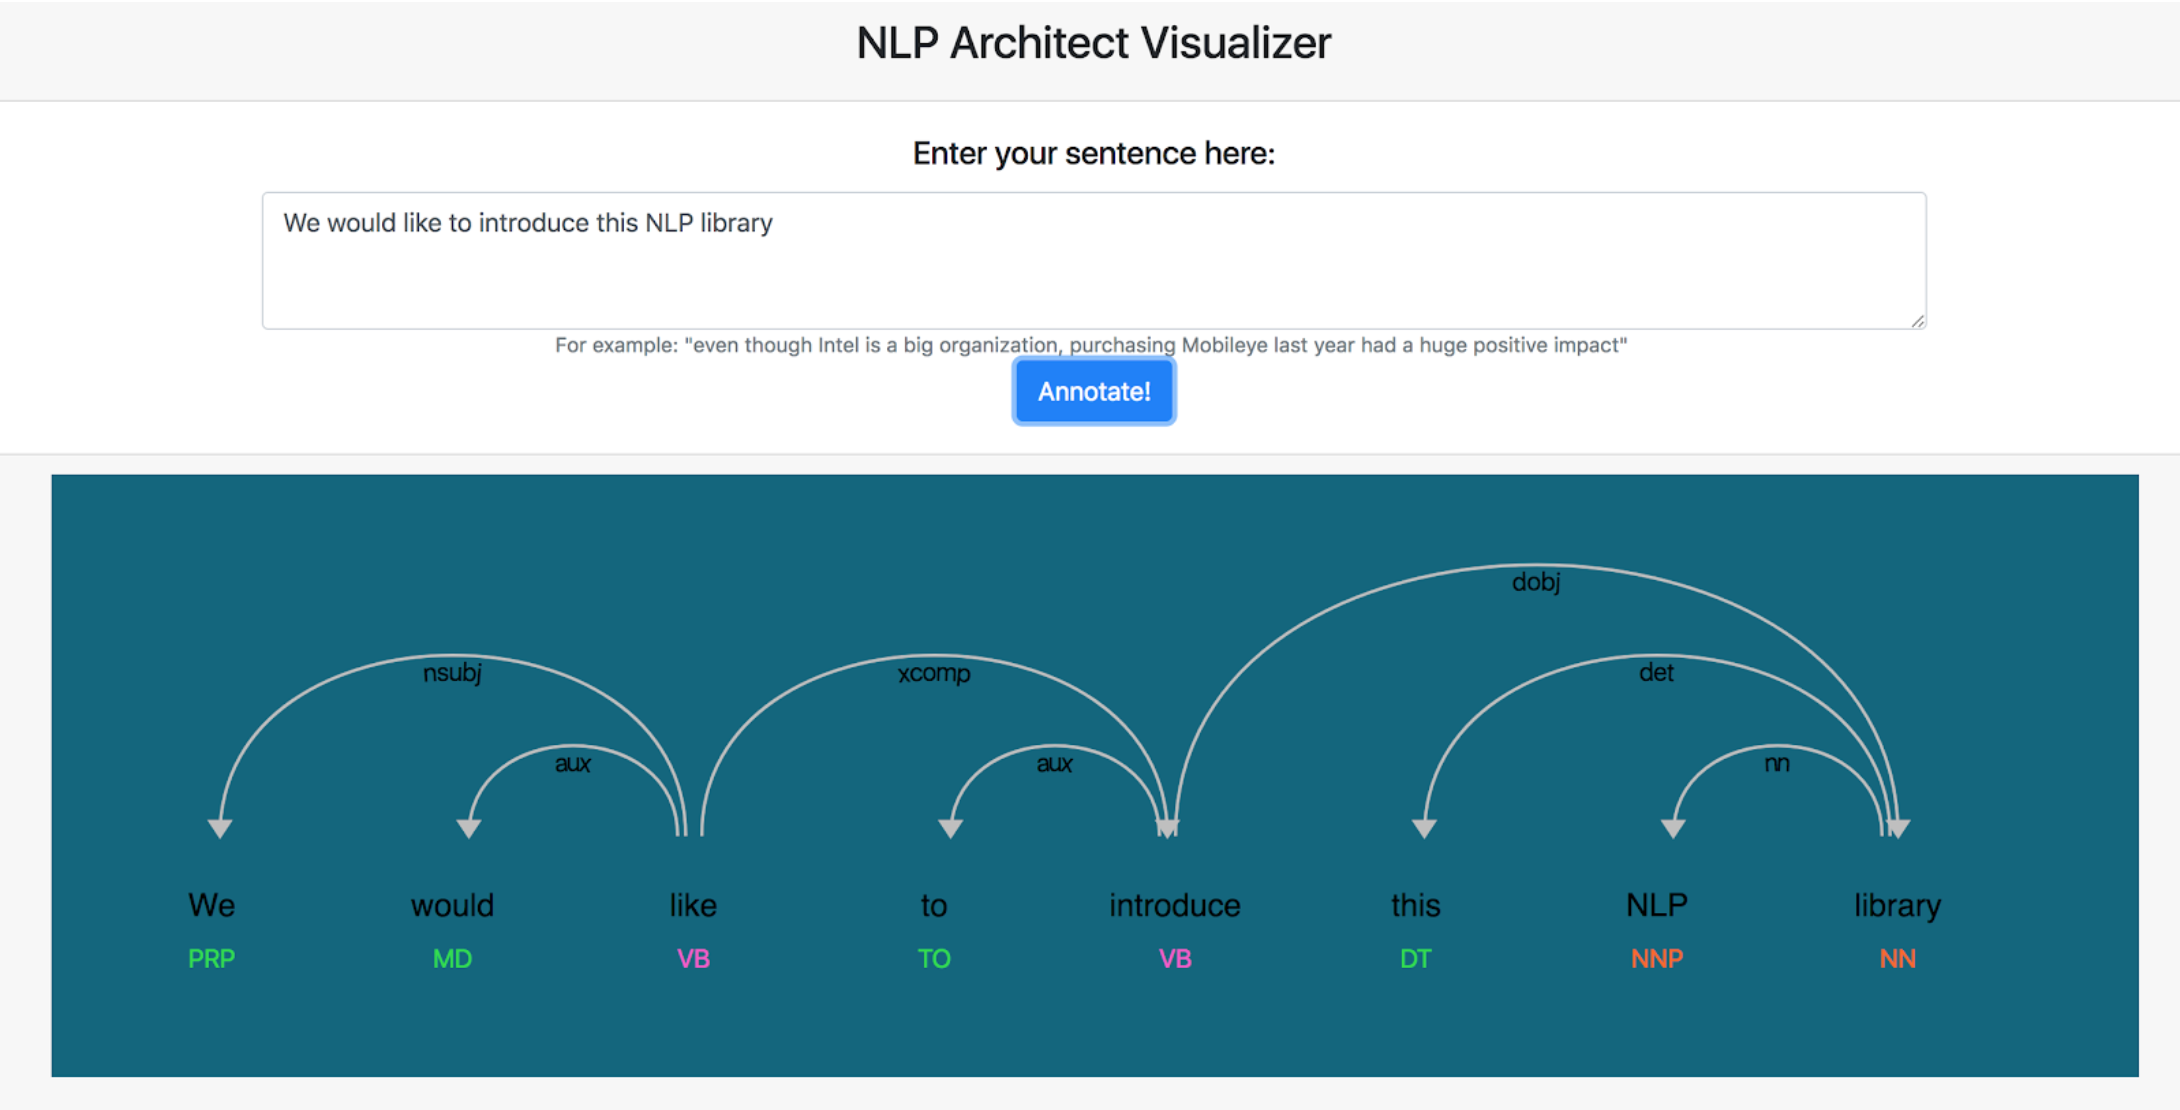
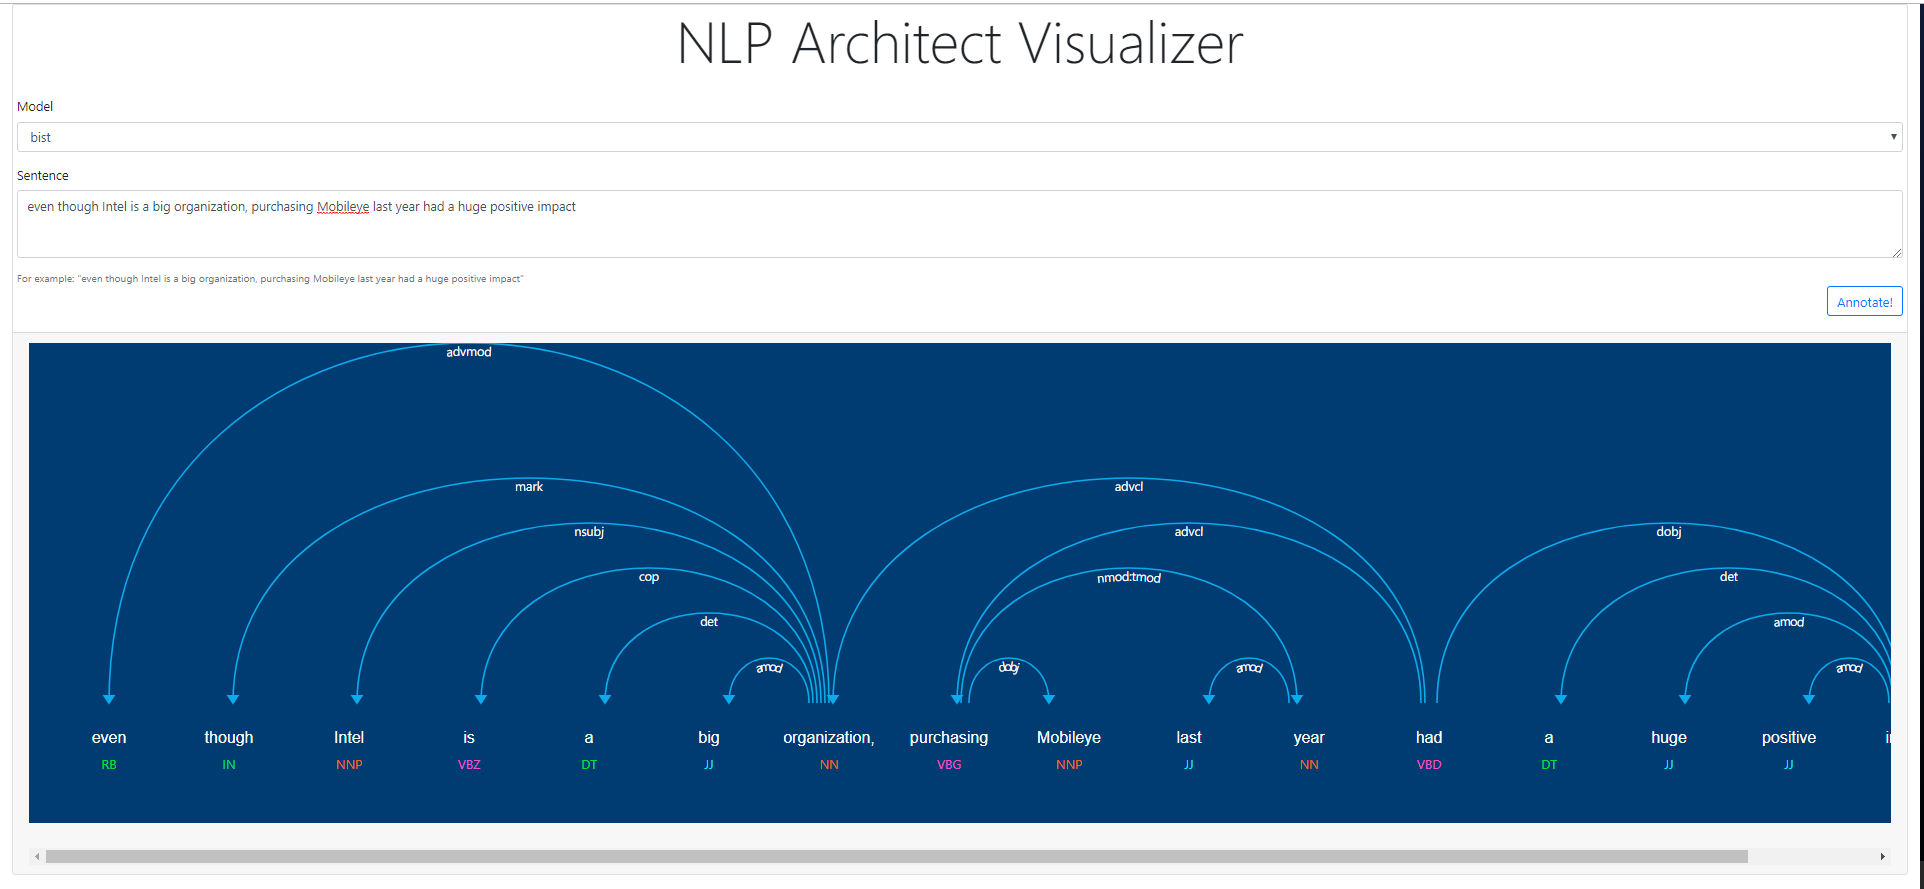
Addressed comments

diff --git a/server/web_service/static/style.css b/server/web_service/static/style.css
@@ -53,11 +53,10 @@ License: MIT -> https://github.com/explosion/displacy-ent/blob/master/LICENSE
 
 
 
-/* Make all right arrows red and hide their labels */
 
 .displacy-arc,
 .displacy-arrowhead{
-    color: #bfbfbf;
+    color: #0baaeb;
 }
 
 
@@ -80,9 +79,18 @@ License: MIT -> https://github.com/explosion/displacy-ent/blob/master/LICENSE
     font-size: 0.6em;
     line-height: 1;
     padding: 0.35em;
+    color: white;
     border-radius: 0.35em;
     text-transform: uppercase;
     display: inline-block;
     vertical-align: middle;
     margin: 0px 0px 0.1rem 0.5rem;
+}
+
+.displacy-label, .displacy-word {
+    color: white;
+}
+
+#displacy-svg {
+    background: #003c72 !important;
 }

diff --git a/server/web_service/static/index.html b/server/web_service/static/index.html
@@ -44,7 +44,7 @@
                 </div>
                 <div class="card-footer">
                     <!-- Parse Core-Components div -->
-                    <div id="displacy_parse" class="o-container u-text-medium entities"></div>
+                    <div id="displacy_parse" style="overflow: auto;" class="o-container u-text-medium entities"></div>
                     <div class="alert alert-danger d-none" id="error_alert" role="alert"></div>
                     <!-- Annotate Model's annotations div -->
                     <div id="displacy_models" class="o-container u-text-medium entities"></div>

diff --git a/nlp_architect/api/ner_api.py b/nlp_architect/api/ner_api.py
@@ -34,6 +34,7 @@ class NerApi(AbstractApi):
     dir = path.dirname(path.realpath(__file__))
     pretrained_model = path.join(dir, 'ner-pretrained', 'ner.model')
     pretrained_model_info = path.join(dir, 'ner-pretrained', 'ner.model_info')
+
     def __init__(self, ner_model=None):
         self.model = None
         self.model_info = None
@@ -74,7 +75,7 @@ class NerApi(AbstractApi):
             print('Downloading pre-trained BIST model...')
             zip_path = path.join(self.dir, 'ner-pretrained.zip')
             download_unlicensed_file('https://s3-us-west-1.amazonaws.com/nervana-modelzoo/parse/',
-                                    'ner-pretrained.zip', zip_path)
+                                     'ner-pretrained.zip', zip_path)
 
             makedirs(dir_path, exist_ok=True)
             print('Unzipping...')

diff --git a/server/service.py b/server/service.py
@@ -147,7 +147,6 @@ class Service(object):
         set_headers(resp)
         headers = parse_headers(req.headers)
         req_content_type = headers["CONTENT-TYPE"]
-        # req_content_encoding = headers["CONTENT-ENCODING"]
         resp_format = headers["RESPONSE-FORMAT"]
         if req_content_type == "application/json" or "application/json" in req_content_type:
             logger.info('Json request')

diff --git a/doc/source/service.rst b/doc/source/service.rst
@@ -34,7 +34,7 @@ Currently we provide 2 services:
  2. `spacy_ner` service which provides Spacy NER annotations.
  3. `ner` service which provides NER annotations without Spacy.
 
-To run the server, simply run `hug -f -p 8080 hug_server/server.py`, the server will run on `http://localhost:8080`.
+To run the server, simply run ``hug -f -p 8080 server/serve.py``, the server will run on `http://localhost:8080`.
 
 If you wish to use the server's visualization - enter `http://localhost:8080`
 
@@ -70,7 +70,7 @@ We currently support only 2 services:
 
 - BIST parser - Core NLP models annotation structure
 
-Once the server is up and running you can go to `http://localhost:8080/demo.html`
+Once the server is up and running you can go to `http://localhost:8080`
 and check out a few test sentences, or you can send a POST request (as described above)
 to `http://localhost:8080/inference`, and receive `CoreNLPDoc` annotation structure response.
 
@@ -83,6 +83,7 @@ and check out a few test sentences, or you can send a Post request (as described
 to `http://localhost:8080/inference`, and receive `HighLevelDoc` annotation structure response.
 
 .. image :: assets/spacy_ner_service.png
+.. image :: assets/ner_service.png
 
 You can also take a look at the tests (tests/nlp_architect_server) to see more examples.
 
